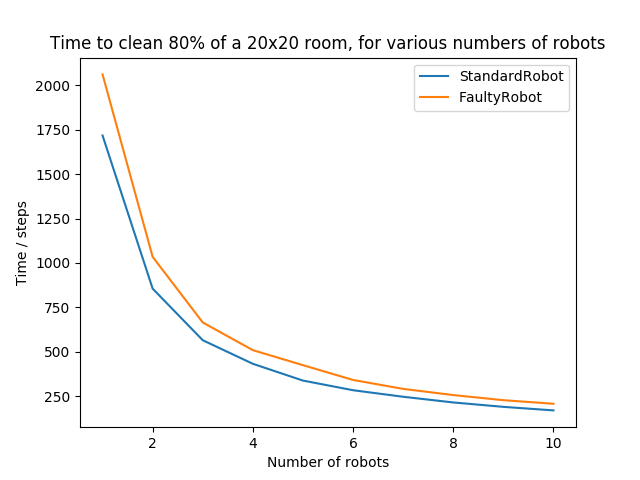
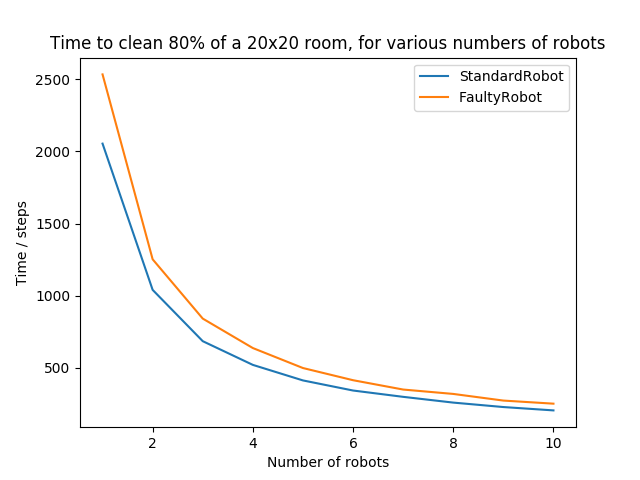
fix minor bug in PS3

diff --git a/PS3/ps3.py b/PS3/ps3.py
@@ -233,7 +233,6 @@ class Robot(object):
         self.speed = float(speed)
         self.capacity = capacity
 
-        self.room.clean_tile_at_position(self.position, self.capacity)
 
     def get_robot_position(self):
         """
@@ -282,7 +281,7 @@ class Robot(object):
         else: return True
 
     def set_new_random_direction(self):
-        self.direction = random.randint(0, 360)
+        self.direction = random.uniform(0, 360)
     
 
 # === Problem 2
@@ -423,10 +422,11 @@ class StandardRobot(Robot):
         rotate once to a random new direction, and stay stationary) and clean the dirt on the tile
         by its given capacity. 
         """
-        while self.is_hit():
+        if not self.is_hit():
+            self.position = self.position.get_new_position(self.direction, self.speed)
+            self.room.clean_tile_at_position(self.position, self.capacity)
+        else:
             self.set_new_random_direction()
-        self.position = self.position.get_new_position(self.direction, self.speed)
-        self.room.clean_tile_at_position(self.position, self.capacity)
 
 
 # Uncomment this line to see your implementation of StandardRobot in action!
@@ -473,18 +473,12 @@ class FaultyRobot(Robot):
         """
         if self.gets_faulty():
             self.set_new_random_direction()
-            while self.is_hit():
-                self.set_new_random_direction()
-            self.position = self.position.get_new_position(self.direction, self.speed)
-
         else:
-            while self.is_hit():
+            if not self.is_hit():
+                self.position = self.position.get_new_position(self.direction, self.speed)
+                self.room.clean_tile_at_position(self.position, self.capacity)
+            else:
                 self.set_new_random_direction()
-
-            self.position = self.position.get_new_position(self.direction, self.speed)
-            self.room.clean_tile_at_position(self.position, self.capacity)
-        
-    
 #test_robot_movement(FaultyRobot, EmptyRoom)
 
 # === Problem 5
@@ -545,7 +539,7 @@ def get_average(result):
     summ = 0
     for each in result:
         summ += each
-    return summ/float(len(result) + 1)
+    return summ/float(len(result))
 
 
 #print ('avg time steps: ' + str(run_simulation(1, 1.0, 1, 5, 5, 3, 1.0, 50, StandardRobot)))
@@ -615,5 +609,5 @@ def show_plot_room_shape(title, x_label, y_label):
     pylab.show()
 
 
-#show_plot_compare_strategies('Time to clean 80% of a 20x20 room, for various numbers of robots','Number of robots','Time / steps')
-#show_plot_room_shape('Time to clean 80% of a 300-tile room for various room shapes','Aspect Ratio', 'Time / steps')
+show_plot_compare_strategies('Time to clean 80% of a 20x20 room, for various numbers of robots','Number of robots','Time / steps')
+show_plot_room_shape('Time to clean 80% of a 300-tile room for various room shapes','Aspect Ratio', 'Time / steps')

diff --git a/PS3/ps3_tests_f16.py b/PS3/ps3_tests_f16.py
@@ -1,4 +1,4 @@
-# Test suite for Problem Set 3 (Simulating Robots)
+# Test suite for Problem Set 4 (Simulating Robots)
 # Fall 2016
 
 import sys
